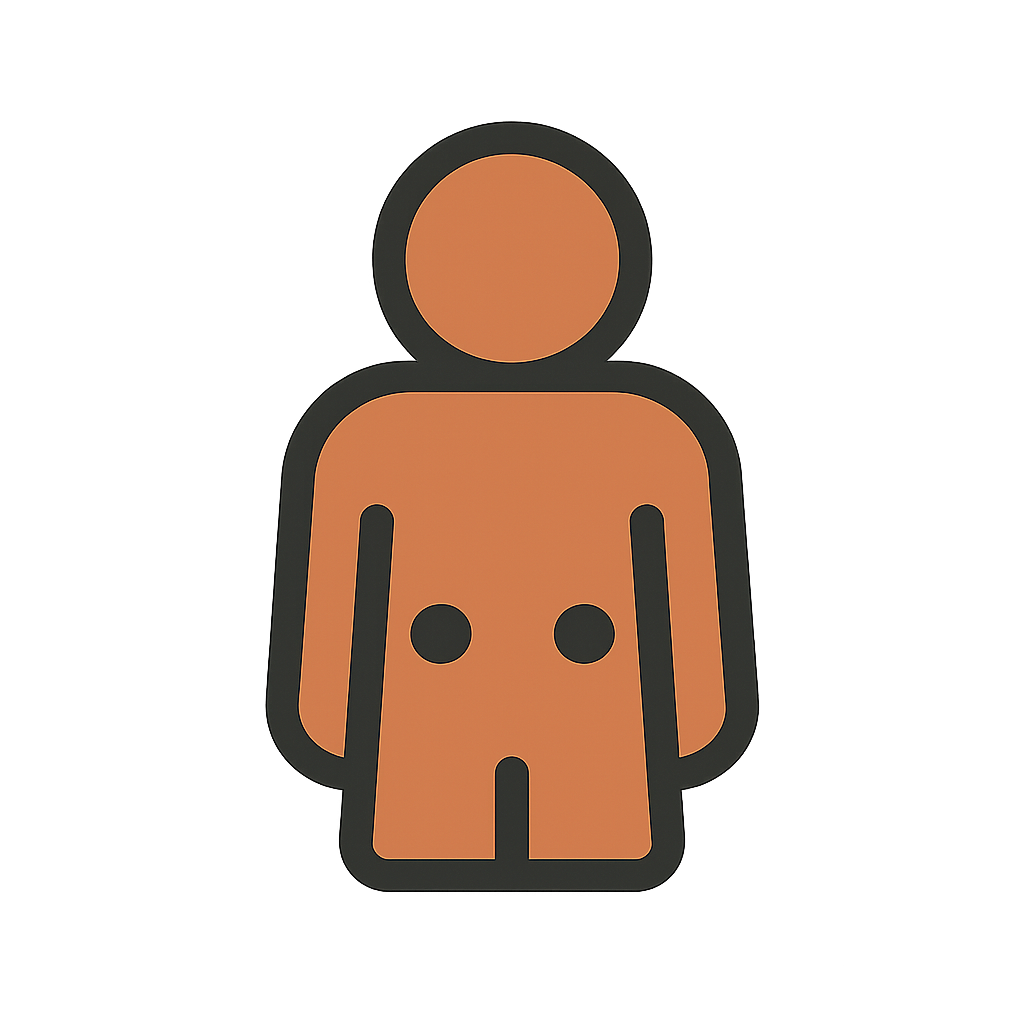
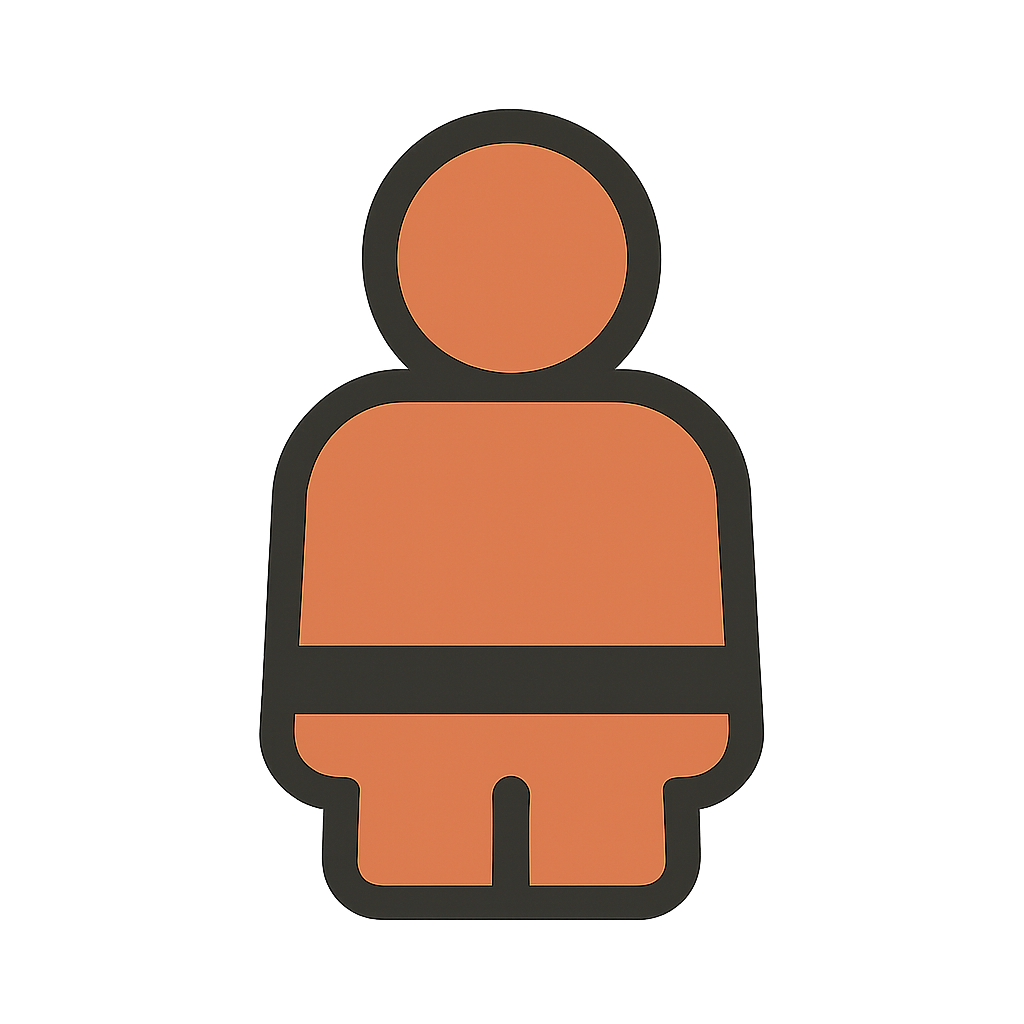
fix: B-2差し戻し3枚(kata/kubi/kokansetsu)を再生成+redFlags文面ドラフト(本人ゲート必須)
alan5検分差し戻し対応。「胴体+微妙な印」が敗因だったため、youtsuu/futomomoで実際に
効いた「太いdark ink帯を該当部位に横断させる」パターンに統一(v1の「領域を塗れ」抽象指示は
効かなかった実測結果を踏まえてv3で再設計)。iOS/Android両方に適用・ビルド成功・npm test
459 green。

あわせて、soudan-draft-safety.mdで発見したredFlags未カバー3種(持病・服薬中・脳卒中サイン)の
文面ドラフト+壊し役レビューをFable2体(書き役/批判役)で作成。批判役が重大な誤検知リスク
(「しっしん」が湿疹と衝突・「目の前が真っ暗」がcrisis慣用句と衝突・エンジンがredFlags個別
返答文を表示できない構造的制約等)を発見。**どちらも本人ゲート必須・実装禁止のドラフト。**

Claude-Session: https://claude.ai/code/session_01WZZeYHN5ctB3pDno1dcmjD

Changed region(s): [[0.25, 0.4375, 0.75, 0.9062], [0.2812, 0.0938, 0.7188, 0.4375]]

diff --git a/scripts/gen-chip-art.py b/scripts/gen-chip-art.py
@@ -167,17 +167,30 @@ WHAT = {
         "around it — no extra accent marks anywhere on the body, since this represents the whole "
         "body rather than one part"
     ),
+    # alan5差し戻し(2026-07-31): 「胴体+微妙な印」が敗因。塗り色を増やさず、印を大きく・
+    # その部位だけ色を変える(墨色で面ごと塗る)ことで22ptでも見分けられる強い目印にする。
+    # v2の帯位置指示(「その領域を塗れ」)は効かなかった(実測: ほぼ無印のまま生成された)。
+    # youtsuu/futomomoで実際に効いた言い回し(「太いdark ink帯を横断させる」の直接指示)に
+    # 揃えて再設計(v3)。
     "kata": (
-        "a simple pictogram of shoulder-blade tension, same solid-filled person construction as "
-        "IMAGE 2 (small circle head, tall rounded-rectangle torso), but with two short thick dark "
-        "ink diagonal tick marks placed side by side across the UPPER-BACK of the torso (shoulder "
-        "blade area) to mark that region — same dark ink color as the outline"
+        "a simple pictogram of shoulder tension: a small circle head and one tall "
+        "rounded-rectangle torso (same construction as IMAGE 2), the WHOLE figure filled solid in "
+        "the single warm accent color with the thick dark outline all around it, PLUS one extra "
+        "very thick dark ink horizontal band — as thick as one quarter of the torso's total height "
+        "— drawn across the very TOP of the torso spanning its FULL width from edge to edge, "
+        "immediately below the neck, to mark the shoulders. This band must be drawn the same way "
+        "as a chunky rounded-rectangle shape stamped on top of the torso, using the SAME dark ink "
+        "color as the outline, thick and bold enough to be obviously visible even shrunk to a tiny "
+        "icon."
     ),
     "kubi": (
-        "a simple pictogram of neck stiffness, same solid-filled person construction as IMAGE 2 "
-        "(small circle head, tall rounded-rectangle torso), but with one thick dark ink horizontal "
-        "stroke drawn right at the narrow neck junction between the head circle and the torso "
-        "rectangle, plus one small dark ink zigzag mark beside the neck to suggest tension"
+        "a simple pictogram of neck stiffness: a small circle head and one tall rounded-rectangle "
+        "torso (same construction as IMAGE 2), the WHOLE figure filled solid in the single warm "
+        "accent color with the thick dark outline all around it, PLUS the neck itself drawn as an "
+        "oversized thick rounded-rectangle block (wider and taller than a normal thin neck would "
+        "be, roughly as wide as the head) connecting the head to the torso, filled solid in the "
+        "SAME dark ink color as the outline — a big bold dark neck block that is obviously visible "
+        "even shrunk to a tiny icon. Nothing else on the figure is marked."
     ),
     "senaka": (
         "a simple pictogram of posture/back, same solid-filled person construction as IMAGE 2 "
@@ -186,10 +199,15 @@ WHAT = {
         "the spine/posture line"
     ),
     "kokansetsu": (
-        "a simple pictogram of the hip joints, same solid-filled person construction as IMAGE 2 "
-        "(small circle head, tall rounded-rectangle torso with two short rounded-rectangle legs), "
-        "but with two small solid dark ink dots marked at the LEFT and RIGHT points where the legs "
-        "join the torso (the hip joints)"
+        "a simple pictogram of the hip joints: a small circle head, one tall rounded-rectangle "
+        "torso, and two short rounded-rectangle legs (same construction as IMAGE 2), the WHOLE "
+        "figure filled solid in the single warm accent color with the thick dark outline all "
+        "around it, PLUS one extra very thick dark ink horizontal band — as thick as one quarter "
+        "of the torso's total height — drawn across the very BOTTOM of the torso spanning its FULL "
+        "width, exactly where the legs attach, to mark the hip joints. This band must be drawn the "
+        "same way as a chunky rounded-rectangle shape stamped across the torso/leg junction, using "
+        "the SAME dark ink color as the outline, thick and bold enough to be obviously visible even "
+        "shrunk to a tiny icon."
     ),
     "kaikyaku": (
         "a simple pictogram of doing the splits: the same solid-filled person construction as "

diff --git a/soudan-pattern-drafts/soudan-draft-redflags-copy.md b/soudan-pattern-drafts/soudan-draft-redflags-copy.md
@@ -1,0 +1,118 @@
+# ⚠これは本人ゲート必須のドラフトです
+
+> # **⚠ 本人の確認・承認なしに soudan-kb.js 等の本体コードへ実装することを禁止します ⚠**
+>
+> 調査+下書きのみ。**index.html / soudan-kb.js は一切変更していません。**
+> 作成: 2026-07-31 / 前提資料: `soudan-draft-safety.md`（redFlags未カバー3種の発見元）・`SOUDAN-DESIGN.md`・`SAFETY-REDFLAG-FIXES.md`・`soudan-kb.js` redFlags実物（1698〜1718行）を読了の上で作成。
+
+## 0. 共通前提（実物コードの確認結果）
+
+- **構造**: `redFlags: { kw: [...], stateKw: [...], empathy, answer, answerState }`（soudan-kb.js 1698〜1718行）。
+  - `kw` にヒット→赤旗。ヒット語が `stateKw`（kwの部分集合＝状態語）のみなら `answerState`（主治医OK待ちトーン）、症状語（stateKw外のkw）にもヒットしたら安全側に倒して `answer`（今すぐ受診トーン）。判定は index.html 側 `sdRedFlagKind`。
+- **正規化**: 照合は sdNorm 後の部分一致（ひらがな化＋英数小文字化＋空白/記号除去）。**カタカナ入力はひらがなに正規化される**ため、kw はひらがな形＋漢字形の2系統を列挙すればよく、カタカナ形の収載は不要（既存コメント1710行「カタカナはsdNormでひらがな化」と同方針）。
+- **既存トーンの正本**（これに合わせて文面を書いた）:
+  - `answer`: 「そのサインがあるときは、ストレッチより先にお医者さん・専門家に診てもらってほしいな。自己判断で伸ばすのは今はお休みしよう。よくなったら、また一緒にやろうね。」
+  - `answerState`: 「その状態のときは、無理せず主治医の先生にOKをもらってからにしよう。落ち着いてOKが出たら、また一緒にやろうね。」
+  - 共通ルール: 診断しない・断定しない・「大丈夫」を安易に言わない・必ず受診/専門家相談に着地・不安を煽らない・「また一緒にやろうね」で閉じる。
+- **エンジン制約（重要）**: 現行エンジンは `answer` / `answerState` の**2文面しか持たない**。カテゴリ別の専用文面を出すには、kwをカテゴリごとにグループ化して文面を紐づけるエンジン拡張が必要（データ契約の変更＝要合意）。本ドラフトでは **(a) 最小案=既存2文面にそのまま乗せる**（文言追加ゼロ）と **(b) 拡張案=カテゴリ専用文面**の両方を書いた。
+- **重複チェック**: 下記の全提案キーワードについて `grep` で soudan-kb.js 全文を確認済み。`高血圧` `血圧` `糖尿` `喘息` `ぜんそく` `緑内障` `ペースメーカー` `不整脈` `抗凝固` `ワーファリン` `インスリン` `ろれつ` `呂律` `痛み止め` `鎮痛` は**どのintentのkwにも一語も存在しない**（=既存カバレッジと衝突しない）。個別の注意点（`片側`→sayuusa、`ゆがみ`→kotsuban2、`薬`→地の文のみ）は各カテゴリに記載。
+
+---
+
+## ① 持病・既往症（高血圧/心臓病/糖尿病/喘息/緑内障/ペースメーカー等）
+
+**分類**: state系（症状ではなく「今こういう体です」の申告）→ `kw` と `stateKw` の**両方**に追加（既存の「妊娠」「術後」と同じパターン）。誤爆しても着地が穏当な `answerState`（主治医OK待ち）なので実害が小さい設計。
+
+### 検知キーワード案（ひらがな正規化形＋漢字表記）
+
+| 病名等 | 提案kw | 重複チェック結果・備考 |
+|---|---|---|
+| 高血圧 | `こうけつあつ` `高血圧` `けつあつがたか` `血圧が高` | 既存kwに「血圧」を含む語なし。裸の`血圧`は「血圧の薬」等も拾えるが「血圧を測った」等も巻き込むため、`〜が高`の形に限定 |
+| 心臓病・心疾患 | `しんぞうびょう` `心臓病` `しんぞうのびょうき` `心臓の病気` `しんしっかん` `心疾患` | 既存redFlagsの`心臓がどきどき`/`心臓がバクバク`（症状語）と部分衝突なし。「祖父が心臓病で」等の第三者話も拾うが answerState着地なので許容（soudan-draft-safety.md 論点1と同じ整理） |
+| 不整脈 | `ふせいみゃく` `不整脈` | 全文に存在せず。誤爆源が考えにくい特徴語 |
+| ペースメーカー | `ぺーすめーかー` | カタカナ入力はsdNormでひらがな化されるためひらがな形のみでよい。漢字表記なし |
+| 糖尿病 | `とうにょうびょう` `糖尿病` `いんすりん` | `インスリン`もひらがな形で収載。裸の`糖尿`まで縮めない（「糖尿が…」の言い方は`糖尿病`にほぼ包含され、縮めても得るものが少ない） |
+| 喘息 | `ぜんそく` `喘息` | 全文に存在せず。`ぜんそく`はひらがな形で「小児ぜんそく」等も部分一致で拾える |
+| 緑内障 | `りょくないしょう` `緑内障` | 全文に存在せず。頭を下げる系ポーズの禁忌に直結するため単語だけで拾う価値が高い |
+| 持病（総称） | `じびょうがあ` `持病があ` `じびょうもち` `持病もち` | 裸の`持病`は「持病はないけど」を巻き込むため**不採用**。`〜があ`形は「持病がある/あって/あります」を1語でカバー（SAFETY-REDFLAG-FIXES.md ②「熱があ」と同じ技法）。なお`持病`は現在924/928行のmitate地の文に出るだけで判定には無関係 |
+| 既往（総称） | `きおうしょう` `既往症` `きおうがあ` `既往があ` `のうこうそく` `脳梗塞` `のうそっちゅう` `脳卒中` | `脳梗塞/脳卒中`は「〜をやったことがある」という既往申告で使われることが多いためここに置く（急性発症は③のFAST語が症状系で先に拾う）。裸の`既往`は医療用語すぎて口語に出にくいが`既往症`は出うる |
+
+### 返答文面案
+
+- **(a) 最小案（エンジン変更なし）**: 上記kwを`kw`+`stateKw`に入れるだけで、既存の `answerState`「その状態のときは、無理せず主治医の先生にOKをもらってからにしよう。落ち着いてOKが出たら、また一緒にやろうね。」がそのまま返る。文言追加ゼロで今すぐ安全側に倒せる。
+- **(b) 拡張案（持病カテゴリ専用文面・answerStateと同トーン）**:
+
+> 「教えてくれてありがとう。体のことを先に伝えてくれるの、すごく大事なことだよ。持病があるときは、合うストレッチ・避けたい動きが人それぞれ違うから、まずは主治医の先生に『どのくらいならOKか』を聞いてみてね。OKをもらえたら、その範囲で無理なく一緒にやろうね。」
+
+  - 診断・保証をしない／「大丈夫」と言わない／主治医確認に着地／「一緒にやろうね」で閉じる、の既存ルールを踏襲。
+  - 緑内障（頭を下げる動きの禁忌）・糖尿病（低血糖）など病名別の注意まで書き分けるのは、soudan-draft-safety.md B群（#9〜#14）の個別文面案を正本として参照。ただし病名別分岐はエンジン拡張がさらに大きくなるため、第一段階は(a)または(b)の一本文面を推奨。
+
+---
+
+## ② 服薬中（痛み止め/抗凝固薬等）
+
+**分類**: state系→ `kw`+`stateKw` に追加。「薬で痛みがマスクされたまま伸ばしすぎる」「抗凝固薬で内出血しやすい」が主リスクで、症状が今起きているわけではないため answerState トーンが適切。
+
+### 検知キーワード案（ひらがな正規化形＋漢字表記）
+
+| 薬の種類 | 提案kw | 重複チェック結果・備考 |
+|---|---|---|
+| 痛み止め・鎮痛剤 | `いたみどめ` `痛み止め` `ちんつうざい` `鎮痛剤` `ちんつうやく` `鎮痛薬` `ろきそにん` | 全文に存在せず。`ロキソニン`はひらがな形`ろきそにん`のみでよい（sdNormでひらがな化）。裸の`いたみどめ`は「痛み止めを飲むほどではない」も拾うが、そういう相談は痛みの相談なので受け止めて悪くない（answerStateの穏当着地） |
+| 抗凝固薬（血液サラサラ系） | `こうぎょうこ` `抗凝固` `わーふぁりん` `血液さらさら` `けつえきさらさら` `血をさらさらにする薬` `ちをさらさらにするくすり` | 全文に存在せず。`血液サラサラ`はsdNorm後`血液さらさら`（漢字+ひらがな混在形）になるためその形で収載。`抗凝固`は`抗凝固薬/抗凝固剤`両方を部分一致でカバー |
+| ステロイド長期 | `すてろいど` | ひらがな形のみ（カタカナ正規化）。骨・腱の脆弱化リスク（soudan-draft-safety.md #18） |
+| 抗がん剤・治療中 | `こうがんざい` `抗がん剤` `かがくりょうほう` `化学療法` `ほうしゃせんちりょう` `放射線治療` | 全文に存在せず。soudan-draft-safety.md #16 由来 |
+| 服薬（総称） | `くすりをのんで` `薬を飲んで` は**不採用を推奨** | 裸の「薬を飲んで」は「花粉症の薬」「サプリ」等まで巻き込み過検知（soudan-draft-safety.md C-24 が「様子見でOK」と整理した例を赤旗化してしまう）。薬種を特定できる上記の語だけに絞るのが既存設計（②発熱で裸の「熱」を捨てた判断）と整合 |
+
+### 返答文面案
+
+- **(a) 最小案（エンジン変更なし）**: 既存 `answerState` がそのまま返る。「主治医の先生にOKをもらってから」は服薬相談にも自然に読める。
+- **(b) 拡張案（服薬カテゴリ専用文面・answerStateと同トーン）**:
+
+> 「教えてくれてありがとう。お薬を使っているときは、痛みが隠れて無理に気づきにくかったり、体の反応がいつもと違ったりすることがあるんだ。どのくらい動いていいかは、処方してくれている先生や薬剤師さんに確認してからにしよう。OKが出たら、やさしい強さで一緒にやろうね。」
+
+  - 「痛みがマスクされる」ことを怖がらせずに伝える／薬剤師も相談先に含める／断定・保証なし／確認後の再開に着地。
+  - 痛み止め限定のより具体的な文面は soudan-draft-safety.md #20（「薬なしでも痛くない範囲を基準に」「手放せないほどの痛みなら原因を先に受診」）を正本として参照。
+
+---
+
+## ③ 脳卒中サイン（FAST基準: 顔の歪み・ろれつが回らない等）
+
+**分類**: **symptom系（最優先・救急レベル）**→ `kw` のみに追加（`stateKw` には**入れない**）。現行ロジックでは stateKw 外の kw ヒット＝`answer`（今すぐ受診）に自動で倒れる。
+なお FAST の A（腕の脱力）と顔のしびれは既存kw `しびれ` `まひ` `力が入らな` で**既にカバー済み**（grep実測）。今回の穴は **S（Speech: ろれつ・言葉）と F（Face: 顔の急な歪み）**。
+
+### 検知キーワード案（ひらがな正規化形＋漢字表記）
+
+| サイン | 提案kw | 重複チェック結果・備考 |
+|---|---|---|
+| ろれつが回らない | `ろれつ` `呂律` | 全文に存在せず。「ろれつ」はほぼこの文脈でしか使われない特徴語なので**裸で収載可**（誤爆源が考えにくく、誤爆しても受診案内=安全側）。`ろれつがまわら`まで縮めず裸にすることで「ろれつが怪しい」「ろれつも変」等の言い回しを全部拾う |
+| うまく話せない | `うまくしゃべれ` `うまく喋れ` `ことばがでにく` `言葉が出にく` `ことばがでてこな` `言葉が出てこな` | 全文に存在せず（`言葉`は keizoku 地の文「合言葉」のみで判定に無関係）。`言葉が出てこな`は加齢の物忘れ相談と重なる可能性があるが、判別不能な場合は安全側（受診案内）に倒すのが既存方針 |
+| 顔の急な歪み | `かおがゆがん` `顔がゆがん` `顔が歪ん` `きゅうにかおが` `急に顔が` | **要注意**: kotsuban2（骨盤のゆがみ, 474行）に裸の `ゆがみ` `歪み` が実在。そのため名詞形`顔のゆがみ`（美容相談: 「顔のゆがみを直したい」）は**収載しない**で、完了形`〜がゆがん`（ゆがんで/ゆがんだ＝急性の出来事）に限定して切り分ける。SAFETY-REDFLAG-FIXES.md ③が裸の`転倒`を捨てて`転倒して/した`に限定したのと同じ技法。redFlagsはintentより先に評価されるため、`顔がゆがん`が骨盤相談を横取りする逆流も起きない（`顔が`必須のため） |
+| 顔の片側の異常 | `かおのかたがわ` `顔の片側` | sayuusa（1301行）に `かたがわだけ` `片側だけ` が実在するが、提案形は`顔の`必須なので衝突しない。「顔の片側がしびれる」は既存`しびれ`でも拾えるが、「顔の片側が下がってる」等しびれ語を含まない訴えを取りこぼさないための保険 |
+
+### 返答文面案
+
+- **(a) 最小案（エンジン変更なし）**: 既存 `answer`「そのサインがあるときは、ストレッチより先にお医者さん・専門家に診てもらってほしいな。…」がそのまま返る。**最低限これで安全側には倒れる**が、脳卒中は分単位で予後が変わるため「よくなったら、また一緒にやろうね」の悠長さが監修論点（soudan-draft-safety.md 論点3と同じ指摘）。
+- **(b) 拡張案（FAST専用文面・crisis枠に近い静かな最優先文面）**:
+
+> 「教えてくれてありがとう。ろれつが回らない・顔が急にゆがむ・片側の手足に力が入らない——このどれかが急に起きているなら、体からのとても大事なサインかもしれないんだ。ストレッチは今はお休みして、ためらわずに救急相談（#7119）や救急車（119番）、すぐ受診できる医療機関に連絡してほしいな。時間がとても大事だから、様子を見ずに今すぐ動いてね。」
+
+  - 診断しない（「脳卒中です」と言わない・「〜かもしれない」に留める）／それでも緊急性は明確に伝える／#7119と119の両方を提示（不安を煽りすぎず「ためらわなくていい」と背中を押す）／このカテゴリのみ「また一緒にやろうね」の定型を外す（crisis枠が動画・チップなしの静かな返答である前例に合わせ、再開の話を今はしない）。
+  - 実装するなら crisis と同様の専用グループ（動画・チップなし）にする案が本命。ただしそれはエンジン拡張なので、**第一段階は(a)最小案（kw追加のみ）で穴を塞ぎ、(b)は監修後の第二段階**という2段構えを推奨。
+
+---
+
+## 4. まとめ（実装時の置き場所・監修論点）
+
+| カテゴリ | バケット | kw追加先 | 文面 |
+|---|---|---|---|
+| ①持病・既往症 | state系 | `kw` + `stateKw` 両方 | 最小=既存answerStateそのまま／拡張=①(b) |
+| ②服薬中 | state系 | `kw` + `stateKw` 両方 | 最小=既存answerStateそのまま／拡張=②(b) |
+| ③脳卒中サイン | symptom系（最優先） | `kw` のみ | 最小=既存answerそのまま／拡張=③(b)（crisis枠寄せ） |
+
+**監修が必要な論点**:
+1. ③の(b)文面で #7119/119 という具体番号を出すか（crisisの「いのちの電話」前例はあるが、医療の緊急番号は初出）。
+2. ①②の「第三者の話（祖父が心臓病で…）」の過検知を許容するか（既存の産後・胸痛設計と同じく answerState の穏当着地なので許容、が本ドラフトの提案）。
+3. `ろれつ` を裸で入れるか `ろれつがまわら` 等に限定するか（本ドラフトは裸を推奨: 誤爆源が考えにくく、誤爆しても受診案内で安全側）。
+4. 実装時は SAFETY-REDFLAG-FIXES.md と同様に「受診になるべき例／巻き込まない例」の決定論的テスト（redflag-safety-test 方式）を追加してから反映すること。特に③は「顔のゆがみを直したい（美容）」「骨盤がゆがんでる」「左右差」が巻き込まれないことのプローブが必須。
+
+> **再掲: ⚠ 本ドラフトは本人ゲート必須。本人の確認・承認なしに soudan-kb.js / index.html へ実装することを禁止します。**

diff --git a/soudan-pattern-drafts/soudan-draft-redflags-critique.md b/soudan-pattern-drafts/soudan-draft-redflags-critique.md
@@ -1,0 +1,80 @@
+# redFlags拡充ドラフト 批判的レビュー（壊し役）
+
+> ⚠**これは本人ゲート必須のレビューです。本体コードへの直接反映を禁止します。**
+> 作成: 2026-07-31 / レビュー対象: `soudan-pattern-drafts/soudan-draft-safety.md`（24パターン提案）
+> ※`soudan-draft-redflags-copy.md` はレビュー時点で存在しなかったため、元提案そのものを対象とした。
+> 照合した実物: `soudan-kb.js` redFlags（kw/stateKw/answer/answerState, L1668-1687）・crisis（L1721）・mukumi intent（L599）、`index.html` sdNorm（L3011）・sdRedFlagHit/sdRedFlagKind/sdAnswerRedFlag（L3209-3308）、`SAFETY-REDFLAG-FIXES.md`（全文）。
+
+## 総評（先に結論）
+
+ギャップ発見（持病・服薬・既往のカテゴリ丸ごと未整備）自体は正しく、grep実測に基づく点も信頼できる。
+ただし **(a) 提案キーワードの中に既存語と衝突する危険な1語（「しっしん」=湿疹と同綴り）**、
+**(b) メンタル系相談を救急案内に誤誘導しうる慣用句（「目の前が真っ暗」）**、
+**(c) B群13件の書き下ろし返答文が現行エンジンでは1文字も表示されない構造的問題**、
+**(d) SAFETY-REDFLAG-FIXES.md③で確立した「予防相談を赤旗に巻き込まない」原則との矛盾（高血圧予防・脳卒中予防）**
+の4点は、このまま実装すると事故になる。監修前に必ず潰すこと。
+
+---
+
+## 1. 見落とされている危険な症状パターン（3種の外側）
+
+| # | 見落とし | 深刻度 | 説明 |
+|---|---|---|---|
+| 1-1 | **けいれん・てんかん** | 高 | 「けいれん」「痙攣」「てんかん」はredFlags.kwにも今回の提案にも無い。発作既往はstate系、いま痙攣した/しているはsymptom系の両方が必要な典型カテゴリなのに丸ごと欠落。ストレッチ中の過換気・首反らしが誘因になりうる持病であり、今回の「持病カテゴリ整備」の趣旨からして落とすのは不自然。 |
+| 1-2 | **意識もうろう・意識が遠のく** | 高 | #2は「気を失っ」「意識が飛んだ」だけ。前駆段階の「意識がもうろう」「意識が遠のく/とおのく」「気が遠くなる」が漏れている。失神完了形しか拾えない設計。 |
+| 1-3 | **裂けるような背部痛（大動脈解離型）** | 中 | 既存kwは「激痛/はげしいいたみ」の連続文字列のみ。「背中が裂けるように痛い」「引き裂かれるような痛み」は激痛と言わなければすり抜ける。AUDIT-SAFETY-PROPOSALSで心臓・胸痛をやった流れの残穴。 |
+| 1-4 | **人工透析中** | 中 | 服薬・治療中カテゴリを立てるなら「透析」はワーファリン・抗がん剤と同格の状態語。提案に無い。 |
+| 1-5 | **関節リウマチ** | 中 | 「関節を伸ばしていいか」が最も切実な持病の一つ。ストレッチアプリとの関連度で言えば緑内障より上。提案に無い。 |
+| 1-6 | **低血糖の急性症状** | 中 | #12の返答文中に「手が震える・冷や汗が出たら中断して」と書いてあるのに、「手が震え」はkw候補にもredFlags.kwにも無い（冷や汗のみ既存）。返答で警告する症状を入口で拾えないのはちぐはぐ。 |
+| 1-7 | **立ちくらみ（単独）** | 低 | §0のギャップ一覧に「立ちくらみ」を挙げておきながら、24パターンのどのキーワード案にも入っていない（#2の文例に登場するだけで、拾うのは「気を失っ」の方）。ギャップと宣言したのに未回収。意図的に外すなら外す理由を書くべき。 |
+| 1-8 | **血栓・エコノミークラス症候群がmukumi intentに居る問題** | 中 | #3(DVT)に直結する既存の歪み: `soudan-kb.js` L601でmukumi intentのkwに「エコノミークラス症候群」「血栓」が入っており、「血栓があると言われた」がredFlagではなく**むくみ動画の案内**に着地する（mitate内の一言注意頼み）。#3を赤旗化するなら、この2語の置き場も同時に監修対象にしないと片手落ち。 |
+
+## 2. 誤検知（false positive）リスク
+
+| # | 提案kw | 深刻度 | 問題 |
+|---|---|---|---|
+| 2-1 | **`しっしん`（#2）** | **致命的** | ひらがな「しっしん」は**湿疹**と同綴り。sdNormはカタカナ→ひらがな変換するので「シッシン」も同様。「しっしんがかゆい」等の皮膚相談が**症状系・今すぐ受診**に飛ぶ。漢字「失神」のみ残し、ひらがな形は削除必須。 |
+| 2-2 | **`目の前が真っ暗`（#4）** | **高** | 絶望の慣用句（「将来を考えると目の前が真っ暗」）。本アプリはstress/不安系intentとcrisis判定を持ち、メンタル相談の入口になっている。落ち込みの訴えに「眼科へ」と返す事故は、単なる誤爆でなく**心情の否認**になる。crisis判定はredFlagsより先だが、crisis kwは「死にたい」等の直接語のみで、この慣用句はcrisisを通過してこの新kwに落ちる。「急に目の前が真っ暗になっ**て倒れ**」等、身体文脈の共起を必須にするか、削除を推奨。 |
+| 2-3 | **`うまくしゃべれない` `言葉が出にくい`（#1）** | 中 | 「緊張して人前でうまくしゃべれない」等の対人不安の訴えと衝突。救急レベル（119案内）の文面に飛ばす語としては単独で立たせるのは危険。「急に」「ろれつ」「片側しびれ」との共起前提に格下げすべき。 |
+| 2-4 | **`視界がぼやけ`（#4）** | 中 | このアプリの主客層（肩こり・スマホ首・眼精疲労=既存intentあり）は「スマホの見すぎで視界がぼやける」と普通に言う。symptom系（今すぐ受診）へ飛ばすのは過剰。「急に」「片目だけ」限定に絞るべき（「片目だけ見え」「視野が欠け」は良い）。 |
+| 2-5 | **`高血圧` `血圧が高`（#9）・`脳卒中` `脳梗塞`（#11）・`糖尿病`（#12）の予防相談巻き込み** | 高 | **SAFETY-REDFLAG-FIXES.md③で「転倒予防の相談を赤旗に飛ばすのは逆に有害（運動機会を奪う）」という原則が確立済み**。「高血圧予防にストレッチはいい?」「脳卒中予防に運動したい」は中高年層の頻出相談であり、この原則と真正面から矛盾する。転倒で裸の「転倒」を外し完了形に置換したのと同じ設計判断（例:「高血圧と言われ」「血圧が高いと言われ」等の当事者形への限定、あるいは「予防」共起時の除外処理）を検討しないまま裸語を提案しているのは、既存設計思想からの後退。 |
+| 2-6 | `ステロイド`（#18） | 低-中 | 湿疹の塗り薬・喘息の吸入でも「ステロイド使ってる」と言う。answerStateの穏当文面に落ちるので実害は小さいが、#18の返答文（骨・筋が弱くなる）は内服長期投与前提であり、塗り薬ユーザーに出すと不安を煽る。裸の「ステロイド」でなく「ステロイドを飲んで」「ステロイドを長く」等に限定すべき。 |
+| 2-7 | 第三者言及（「父が心臓病で」「母が抗がん剤治療中で介護の腰痛が…」） | 低 | §3.1で自認済み。answerState着地なら許容範囲、という判断には同意。ただし介護者の腰痛相談（実需要が高い）が毎回state文面に吸われる点は、監修時に実例を1本流して体感確認しておくべき。 |
+
+## 3. 見逃し（false negative）リスク
+
+| # | 対象 | 問題 |
+|---|---|---|
+| 3-1 | **`呂律`（漢字形）が無い** | #1は「ろれつがまわら」「ろれつが回ら」のみ。IMEは「呂律が回らない」に普通に変換する。sdNormは漢字→かな変換をしない（L3011-3016で確認: 小文字化・全角半角・カタカナ→ひらがなのみ）ので**漢字「呂律」は完全に素通り**。最優先・救急レベルと自称するパターンの主要表記が抜けるのは重大。`呂律` を追加必須。同様に「顔が歪ん」（漢字の歪）も「顔がゆがむ」では拾えない。 |
+| 3-2 | **活用形の詰め不足** | 「顔がゆがむ」→「顔がゆがんで(きた)」を拾えない（`ゆがむ`終止形固定）。「意識が飛んだ」→「意識が飛んで/飛びそう」を拾えない。既存kwは「気を失っ」「急に痛」のように**語幹止め**が流儀（FIXESの夜間痛設計も同じ）。`顔がゆが` `意識が飛` の形に直すべき。 |
+| 3-3 | **#19 `薬を飲んでてふらつ` はほぼ発火しない** | 「飲んでて/飲んでいて/飲むと/飲んだら」の揺れ＋間に他の語（「薬を飲んでいて、たまにふらつく」）が挟まると連続部分一致は成立しない。実質死にkw。しかも根本問題として、**「血圧の薬を飲んでる」と言うユーザーは「高血圧」と言わない**ことが多く、#9の`高血圧`/`血圧が高`はどちらもヒットしない。`血圧の薬` を状態語として立てる方が実効性が高い。 |
+| 3-4 | **#3 `片足だけむくん` 系は語順が固すぎる** | 実際の訴えは「右足だけパンパン」「ふくらはぎが片方だけ腫れて」「左足がむくんで熱っぽい」。「片足だけ+むくみ語」の連続形しか提案されておらず、左右指定形（右足だけ/左足だけ）が全滅。なお裸の「むくみ」を避けた判断自体は正しい（mukumi intentと衝突するため）。 |
+| 3-5 | **#15 血液サラサラ系の言い回し** | 「血**を**サラサラにする薬」（血液と言わない形）が漏れ。またワーファリンは現在は処方の主流でなく、DOAC（エリキュース・リクシアナ・イグザレルト）やバイアスピリンを名指しするユーザーを取りこぼす。最低限「血をさらさら」「アスピリン」は検討対象。 |
+| 3-6 | **#17 `人工関節` は「人工股関節」を拾えない** | 「人工股関節」「人工膝関節」は文字列として「人工関節」を**含まない**（間に股/膝が入る）。部分一致の落とし穴。`人工股関節` `人工膝関節` の明示追加が必要。 |
+| 3-7 | #12 糖尿病の言い換え | 「血糖値が高いと言われて」「HbA1cが引っかかって」は糖尿病と言わない頻出形。`血糖値が高` の追加を検討。 |
+| 3-8 | #6 `いつもとちがう激しい` | 語順固定が強すぎ（「いつもと違って激しく痛む」で不成立）。また「激しい下腹部痛」は既存の`はげしいいたみ`（連続一致）でも拾えない点の指摘自体は正しいが、提案kwも同型の脆さを持つ。`不正出血`は単独で良いkw。 |
+
+## 4. 既存実装・安全設計思想との矛盾
+
+| # | 問題 | 深刻度 |
+|---|---|---|
+| 4-1 | **B群13件の書き下ろし返答文は、現行エンジンでは表示できない。** redFlagsの返答は `answer` と `answerState` の**各1本だけ**（soudan-kb.js L1684-1687）で、sdAnswerRedFlag（index.html L3297-3308）はkw別の文面出し分けを持たない。§4の実装案「B群はkw+stateKwに追加」に従うと、全13件が汎用answerState文（「主治医の先生にOKをもらってから」）に潰れ、**#12の低血糖対処（中断して糖分を）や#14の頭を下げるポーズ回避といった安全上意味のある個別情報が全部消える**。ドラフトはこの構造制約を§0で認識している素振り（「2バケットに乗せる前提」）を見せつつ、24本の個別文面を書いており、読者（監修者）に「この文面が出る」という誤解を与える。**エンジン改修（カテゴリ別redFlagエントリ化）とセットの提案なのか、文面は将来用メモなのか、明示が必要。** | **高（提案の根幹）** |
+| 4-2 | **#1 脳卒中サインの置き場が未解決のまま。** §3.3で自認しているとおり、既存answer文（「お医者さんに診てもらってほしいな…よくなったらまた一緒にやろうね」）は119番案件には悠長すぎる。crisis枠に乗せる案が書かれているが、crisisは希死念慮専用のanswer1本構造＋チップ全消しUX（sdAnswerCrisis, L3309-3314）で、文面を共用できない。つまり**現行構造には脳卒中サインの適切な置き場が存在しない**。これも4-1と同根のエンジン改修案件であり、「kwを足すだけ」で先行実装すると、救急案件に「よくなったらまた一緒にやろうね」と返す中途半端な状態になる。kw追加と文面設計は分離不可。 | 高 |
+| 4-3 | **stateKw契約との整合は概ね良い**が、確認点が1つ: stateKwは「kwの部分集合」という契約（soudan-kb.jsコメント）で、sdRedFlagKindはstateSetに**無い**kwヒットを即symptom扱いにする。B群の語をkwにだけ足してstateKwに入れ忘れると、「高血圧なんですが」が**今すぐ受診**文面になる。§4は両方追加と書いており正しいが、24語規模の追加では入れ忘れ事故が起きやすい。FIXESが確立した検証手順（危険N/正常N の決定論的テスト＋redflag-safety-test 55/55への追補）への言及がドラフトに一切無いのは、産後・転倒で作ったプロセスからの後退。 | 中 |
+| 4-4 | **#5 切迫流産/早産の扱い**: 「まとめてstateKwに置き、出血・張り等の症状語共起でsymptomに自動昇格」という整理は現行sdRedFlagKindの安全側優先ロジックに正しく乗っており、良い。ただし「お腹の張り」自体が既存kwに無いため、「切迫早産でお腹が張ってる」は張り側の症状語ヒットが起きず、想定した自動昇格が**起きない**（「大量出血」はあるが「出血」単独・「張り」は無い）。昇格の前提が現状のkwでは成立しない点は要修正。 | 中 |
+| 4-5 | C群#23「経過観察」はどのintentにも着地せずフォールバックに落ちる、という自認（§2C備考・§4）は正しいが、AUDIT-SAFETY-PROPOSALSのフォールバック安全網が受け止める前提なら「様子見でOK」分類の意味が実質無い（提案として何もしないのと同じ）。C群3件は「巻き込まない検証ケース（正常系テスト材料）」と再定義した方が正直。 | 低 |
+| 4-6 | #7・#8は自ら「既カバー・キーワード追加不要」と書いた確認行であり、「24パターン作成」という件数の看板がやや過大（実キーワード新設は20件前後）。監修者の負担見積りを狂わせるので、件数は分けて表記すべき。 | 低 |
+
+## 5. 監修前に必ず潰すべき順（優先度つきまとめ）
+
+1. **`しっしん` 削除**（2-1・湿疹誤爆。これだけは絶対に通してはいけない）
+2. **4-1の構造問題の明示**: B群個別文面はエンジン改修なしでは出ない。改修するのか、汎用answerStateで良しとするのか、監修の前提として決める
+3. **#1脳卒中の文面置き場**（4-2）: kwだけ先行追加は不可。緊急度別の第3の文面枠（crisisとredFlagsの間）が要るかの判断
+4. **`目の前が真っ暗` の削除または共起条件化**（2-2・メンタル相談の否認事故）
+5. **予防相談の巻き込み対策**（2-5・FIXES③の確立原則との矛盾。高血圧/脳卒中/糖尿病の裸語は当事者形に限定）
+6. **`呂律`（漢字）追加＋語幹止めへの統一**（3-1・3-2。救急レベルの主要表記漏れ）
+7. けいれん/てんかん・意識もうろう・透析・リウマチの追加検討（1-1〜1-5）
+8. `血圧の薬`・`人工股関節/膝関節`・左右指定むくみ形などのFN補修（3-3〜3-7）
+9. redflag-safety-testへの回帰ケース追補をタスク化（4-3。FIXES流の危険N/正常N実測なしで本体反映しない）
+
+以上。本レビュー自体も含め、**本体コード（soudan-kb.js / index.html）への反映は本人監修ゲートを通過してから**。
